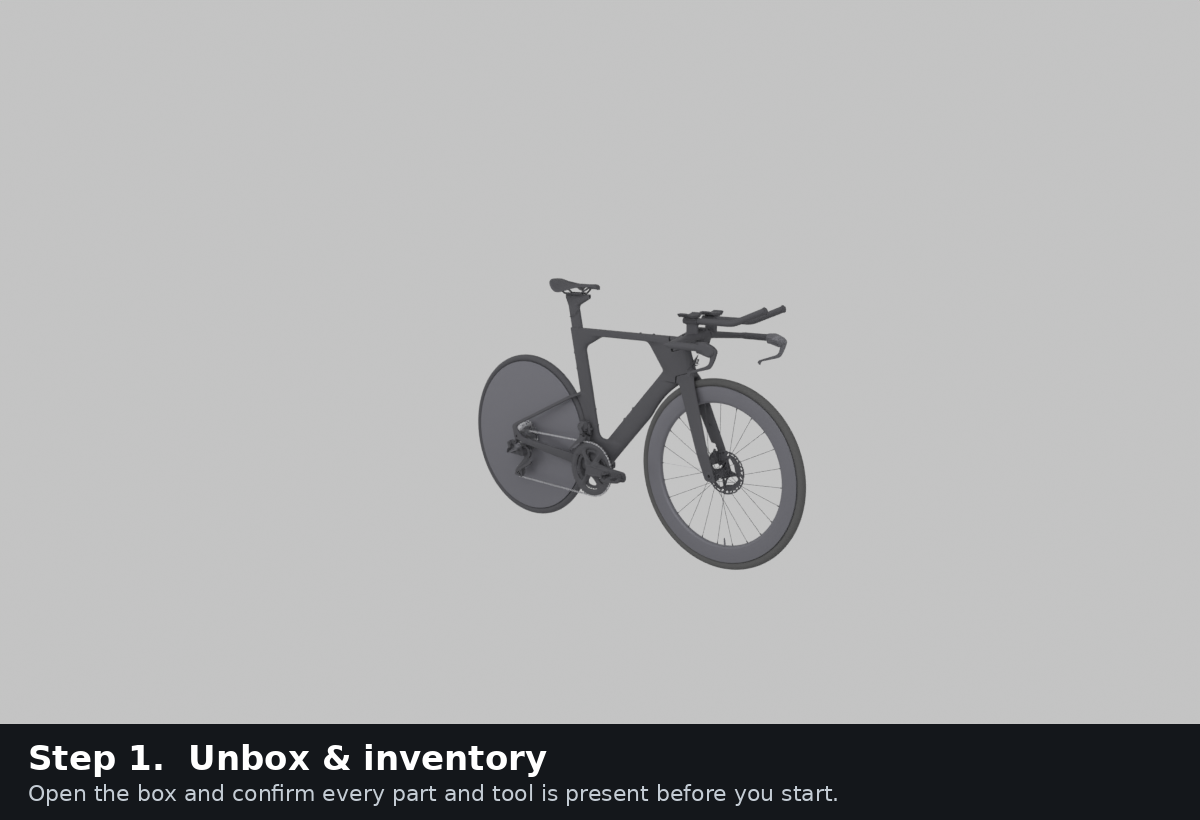
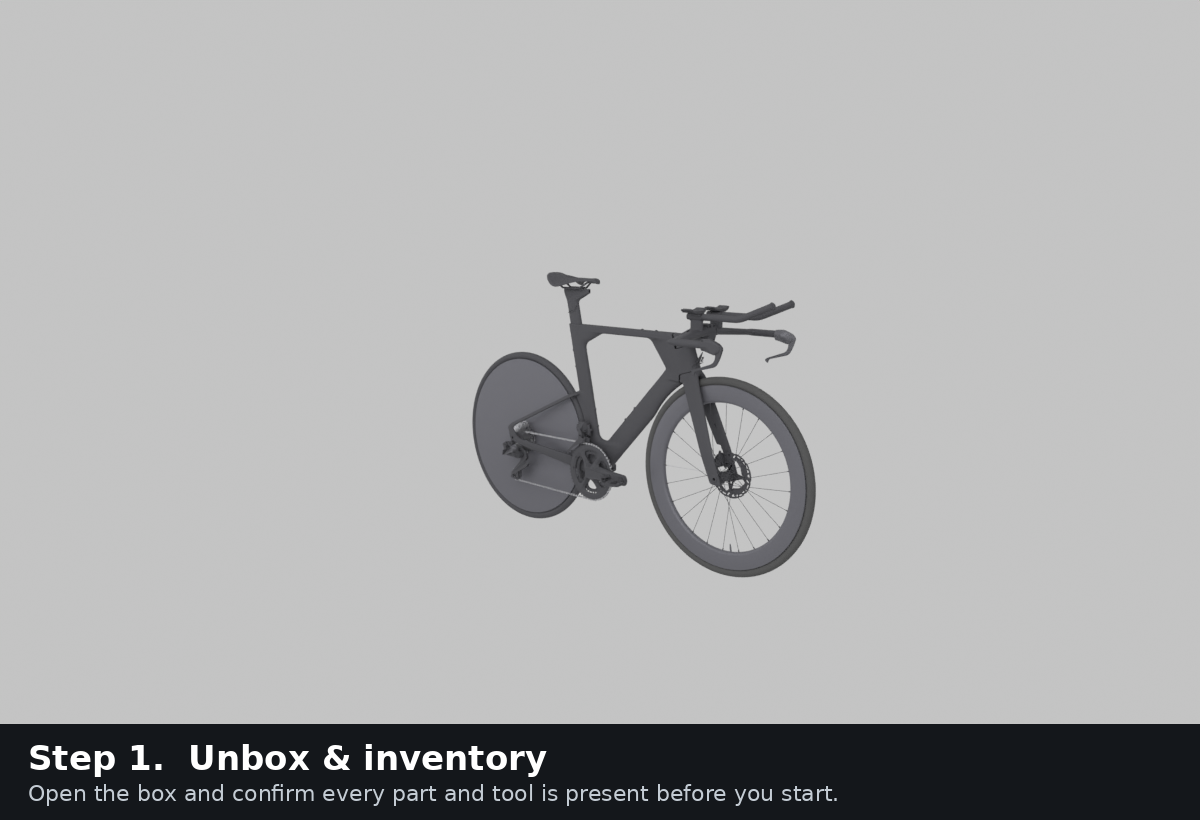
Tighten per-step render zoom; add critical star-pattern faceplate instruction (hazard + numbered diagram) to cockpit step
https://claude.ai/code/session_01FKBbiw3iZHLeV27oZHfReo

Changed region(s): [[0.37, 0.3659, 0.6783, 0.7012], [0.4008, 0.4268, 0.4625, 0.4878], [0.4625, 0.3354, 0.4933, 0.3659]]

diff --git a/sp-assembly-guide/src/lib/types.ts b/sp-assembly-guide/src/lib/types.ts
@@ -50,6 +50,8 @@ export interface Step {
   explode: Partial<Record<PartId, Vec3>>;
   camera: { position: Vec3; target: Vec3; fov: number };
   annotations?: Annotation[];
+  /** Optional schematic overlay drawn in the PDF render, e.g. "faceplate_star". */
+  diagram?: string;
   torque: TorqueSpec[];
   tools: string[];
   warnings: string[];

diff --git a/sp-assembly-guide/tools/render_steps.py b/sp-assembly-guide/tools/render_steps.py
@@ -112,8 +112,10 @@ cam_data.sensor_fit = "VERTICAL"
 
 acc01 = tuple(c / 255 for c in ACCENT)
 fontB = ImageFont.truetype(TTF_B, 34)
+fontMb = ImageFont.truetype(TTF_B, 28)
 fontM = ImageFont.truetype(TTF, 26)
 fontS = ImageFont.truetype(TTF, 22)
+fontXs = ImageFont.truetype(TTF, 18)
 
 
 def project(p_gltf):
@@ -129,17 +131,41 @@ def draw_arrow(d, tail, tip, color):
         d.line([tip, (tip[0] + 26 * math.cos(a), tip[1] + 26 * math.sin(a))], fill=color, width=7)
 
 
+def draw_faceplate_star(d):
+    """Inset schematic of the 4 faceplate bolts + the star tightening order."""
+    bx0, by0, bx1, by1 = 832, 26, 1174, 322
+    d.rounded_rectangle([bx0, by0, bx1, by1], radius=14, fill=(255, 255, 255), outline=INK, width=3)
+    d.text((bx0 + 18, by0 + 12), "Faceplate bolt order", font=fontMb, fill=INK)
+    # faceplate body
+    fx0, fy0, fx1, fy1 = bx0 + 70, by0 + 64, bx1 - 70, by1 - 70
+    d.rounded_rectangle([fx0, fy0, fx1, fy1], radius=10, fill=(225, 229, 234), outline=(150, 156, 163), width=2)
+    UL, UR = (fx0, fy0), (fx1, fy0)
+    LL, LR = (fx0, fy1), (fx1, fy1)
+    seq = [("1", UL), ("2", LR), ("3", UR), ("4", LL)]  # star order from upper-left
+    # criss-cross arrows in sequence
+    for (_, a), (_, b) in zip(seq, seq[1:]):
+        draw_arrow(d, a, b, RED)
+    for num, (x, y) in seq:
+        d.ellipse([x - 26, y - 26, x + 26, y + 26], fill=ACCENT, outline=(255, 255, 255), width=3)
+        tb = d.textbbox((0, 0), num, font=fontMb)
+        d.text((x - (tb[2] - tb[0]) / 2, y - (tb[3] - tb[1]) / 2 - 4), num, font=fontMb, fill=(255, 255, 255))
+    d.text((bx0 + 18, by1 - 40), "Start upper-left · repeat in small steps", font=fontXs, fill=INK)
+
+
 for step in STEPS:
     n = step["order"]
     # (3D emission highlight removed — the 2D arrow + tight framing convey the
     #  action more reliably and keep the matte-black finish true.)
 
-    # camera
+    # camera — zoom in tight for detail steps, stay wide for overviews
     pos = step["camera"]["position"]; tgt = step["camera"]["target"]
-    cam.location = g2b(pos)
-    direction = g2b(tgt) - cam.location
+    detail = bool(step.get("annotations") or step.get("focusParts"))
+    zoom = 0.6 if detail else 1.0          # pull camera closer to the target
+    posv, tgtv = g2b(pos), g2b(tgt)
+    cam.location = tgtv + (posv - tgtv) * zoom
+    direction = tgtv - cam.location
     cam.rotation_euler = direction.to_track_quat("-Z", "Y").to_euler()
-    cam_data.angle_y = math.radians(step["camera"]["fov"] + 10)
+    cam_data.angle_y = math.radians(step["camera"]["fov"] + (3 if detail else 8))
     bpy.context.view_layer.update()
 
     path = os.path.join(OUT, f"step_{n:02d}.png")
@@ -162,6 +188,9 @@ for step in STEPS:
             ly = max(tly - 40, 8)
             d.rectangle([lx - 8, ly - 4, lx + tw + 8, ly + 30], fill=col)
             d.text((lx, ly), label, font=fontS, fill=(255, 255, 255))
+
+    if step.get("diagram") == "faceplate_star":
+        draw_faceplate_star(d)
 
     # caption bar
     bar_h = 96
